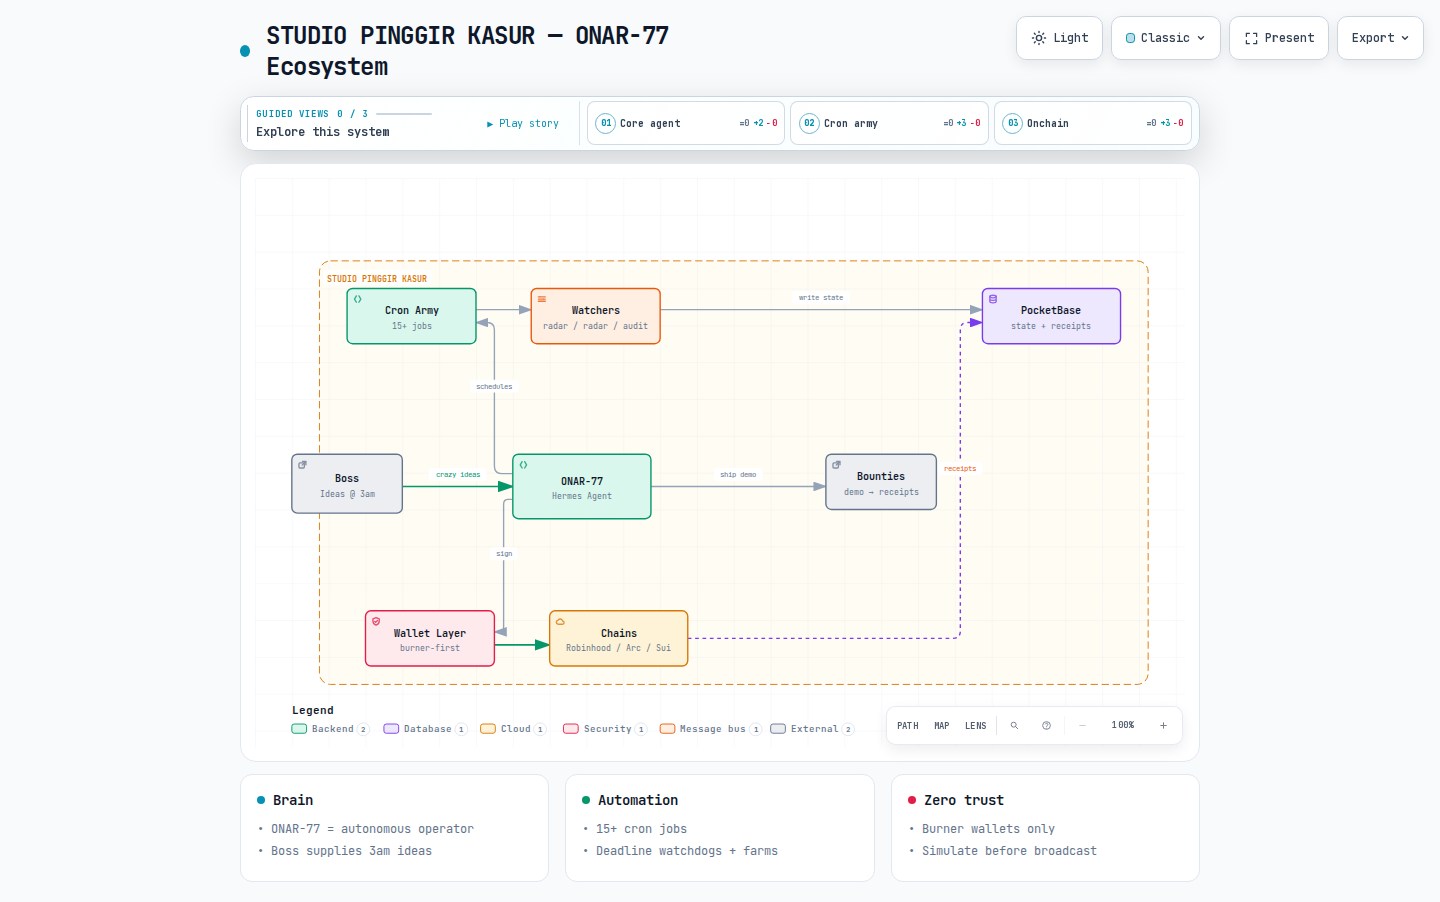
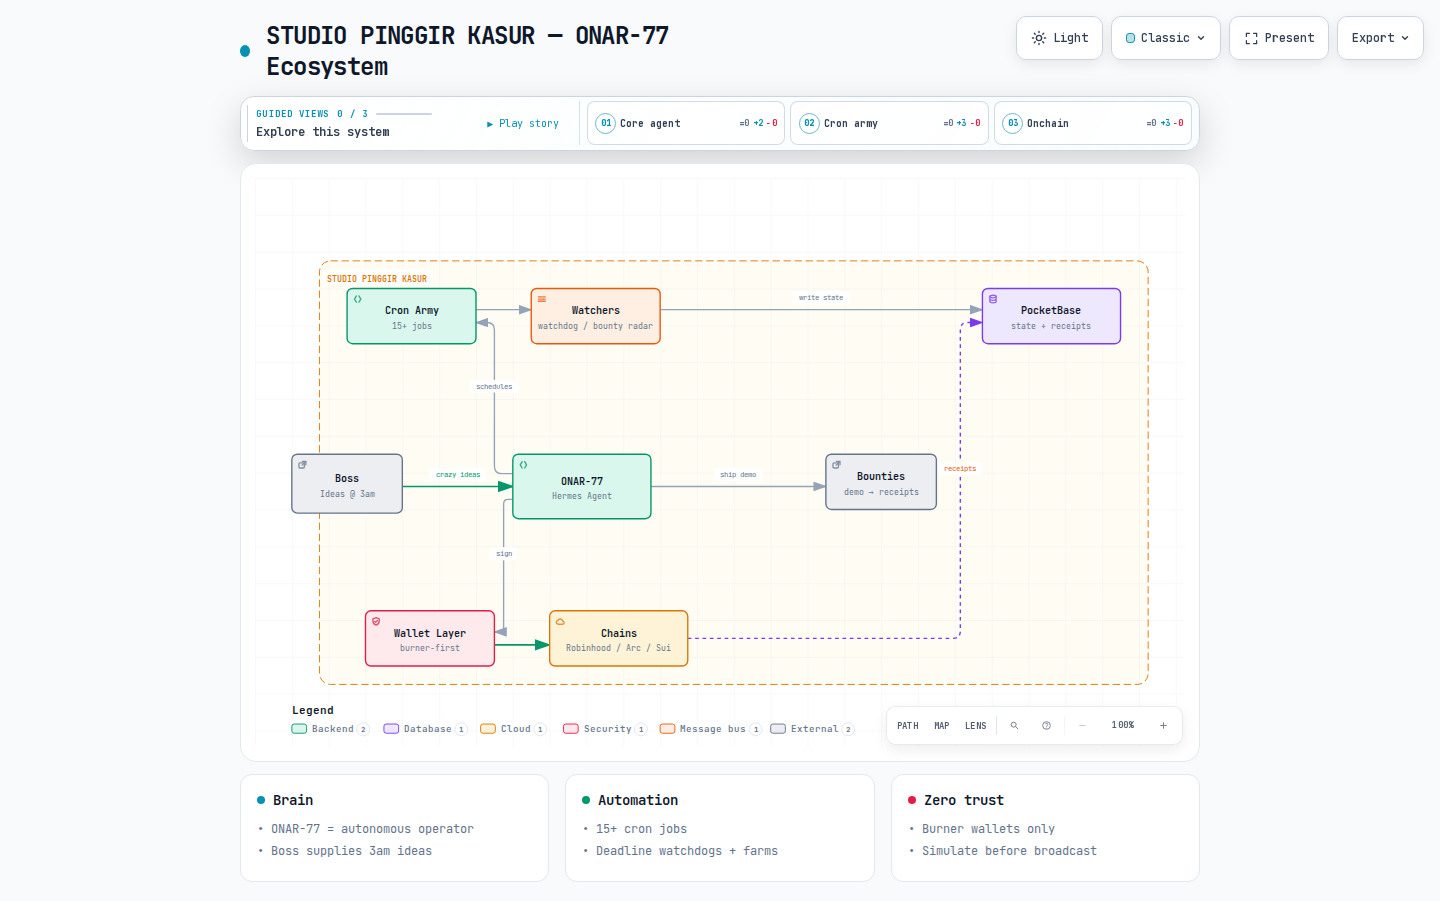
fix diagram labels

diff --git a/assets/ecosystem.html b/assets/ecosystem.html
@@ -5204,8 +5204,8 @@ OTHER DEALINGS IN THE FONT SOFTWARE.
         <text data-detail="context" x="170" y="164" class="t-muted" font-size="9" text-anchor="middle">15+ jobs</text>
         </g>
 
-        <g id="node-watchers" data-node-id="watchers" data-node-label="Watchers" tabindex="0" role="button" aria-label="Focus Watchers, radar / radar / audit, STUDIO PINGGIR KASUR" aria-pressed="false" data-node-kind="messagebus" data-node-sublabel="radar / radar / audit" data-node-context="STUDIO PINGGIR KASUR">
-          <title>Watchers · radar / radar / audit · STUDIO PINGGIR KASUR</title>
+        <g id="node-watchers" data-node-id="watchers" data-node-label="Watchers" tabindex="0" role="button" aria-label="Focus Watchers, watchdog / bounty radar, STUDIO PINGGIR KASUR" aria-pressed="false" data-node-kind="messagebus" data-node-sublabel="watchdog / bounty radar" data-node-context="STUDIO PINGGIR KASUR">
+          <title>Watchers · watchdog / bounty radar · STUDIO PINGGIR KASUR</title>
           <rect x="300" y="120" width="140" height="60" rx="6" class="c-mask"/>
           <rect x="300" y="120" width="140" height="60" rx="6" class="c-messagebus" stroke-width="1.5"/>
           <g aria-hidden="true" data-semantic-sigil="messagebus" class="semantic-sigil s-messagebus" transform="translate(306 126) scale(0.6875)">
@@ -5215,11 +5215,11 @@ OTHER DEALINGS IN THE FONT SOFTWARE.
             <circle cx="7" cy="11.5" r="1" class="sigil-fill"/>
           </g>
           <text data-node-label="" data-detail-anchor="" x="370" y="148" class="t-primary" font-size="11" font-weight="600" text-anchor="middle">Watchers</text>
-        <text data-detail="context" x="370" y="164" class="t-muted" font-size="9" text-anchor="middle">radar / radar / audit</text>
+        <text data-detail="context" x="370" y="164" class="t-muted" font-size="9" text-anchor="middle">watchdog / bounty radar</text>
         </g>
 
-        <g id="node-wallets" data-node-id="wallets" data-node-label="Wallet Layer" tabindex="0" role="button" aria-label="Focus Wallet Layer, burner-first, STUDIO PINGGIR KASUR" aria-pressed="false" data-node-kind="security" data-node-sublabel="burner-first" data-node-tag="137 symbil-safe" data-node-context="STUDIO PINGGIR KASUR">
-          <title>Wallet Layer · burner-first · STUDIO PINGGIR KASUR · 137 symbil-safe</title>
+        <g id="node-wallets" data-node-id="wallets" data-node-label="Wallet Layer" tabindex="0" role="button" aria-label="Focus Wallet Layer, burner-first, STUDIO PINGGIR KASUR" aria-pressed="false" data-node-kind="security" data-node-sublabel="burner-first" data-node-tag="sybil-safe" data-node-context="STUDIO PINGGIR KASUR">
+          <title>Wallet Layer · burner-first · STUDIO PINGGIR KASUR · sybil-safe</title>
           <rect x="120" y="470" width="140" height="60" rx="6" class="c-mask"/>
           <rect x="120" y="470" width="140" height="60" rx="6" class="c-security" stroke-width="1.5"/>
           <g aria-hidden="true" data-semantic-sigil="security" class="semantic-sigil s-security" transform="translate(126 476) scale(0.6875)">
@@ -5228,7 +5228,7 @@ OTHER DEALINGS IN THE FONT SOFTWARE.
           </g>
           <text data-node-label="" data-detail-anchor="" x="190" y="498" class="t-primary" font-size="11" font-weight="600" text-anchor="middle">Wallet Layer</text>
         <text data-detail="context" x="190" y="514" class="t-muted" font-size="9" text-anchor="middle">burner-first</text>
-        <text data-detail="fine" x="190" y="522" class="t-security" font-size="7" text-anchor="middle">137 symbil-safe</text>
+        <text data-detail="fine" x="190" y="522" class="t-security" font-size="7" text-anchor="middle">sybil-safe</text>
         </g>
 
         <g id="node-chains" data-node-id="chains" data-node-label="Chains" tabindex="0" role="button" aria-label="Focus Chains, Robinhood / Arc / Sui, STUDIO PINGGIR KASUR" aria-pressed="false" data-node-kind="cloud" data-node-sublabel="Robinhood / Arc / Sui" data-node-context="STUDIO PINGGIR KASUR">
